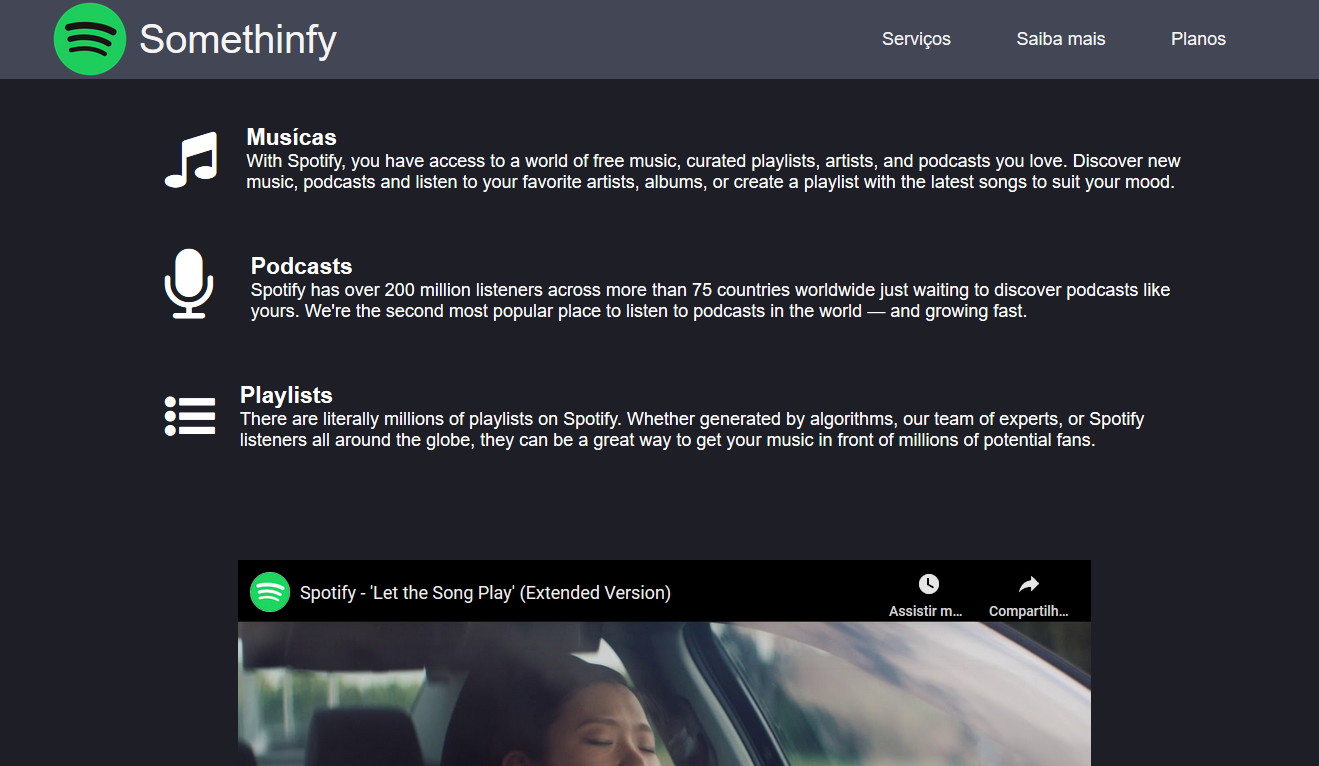
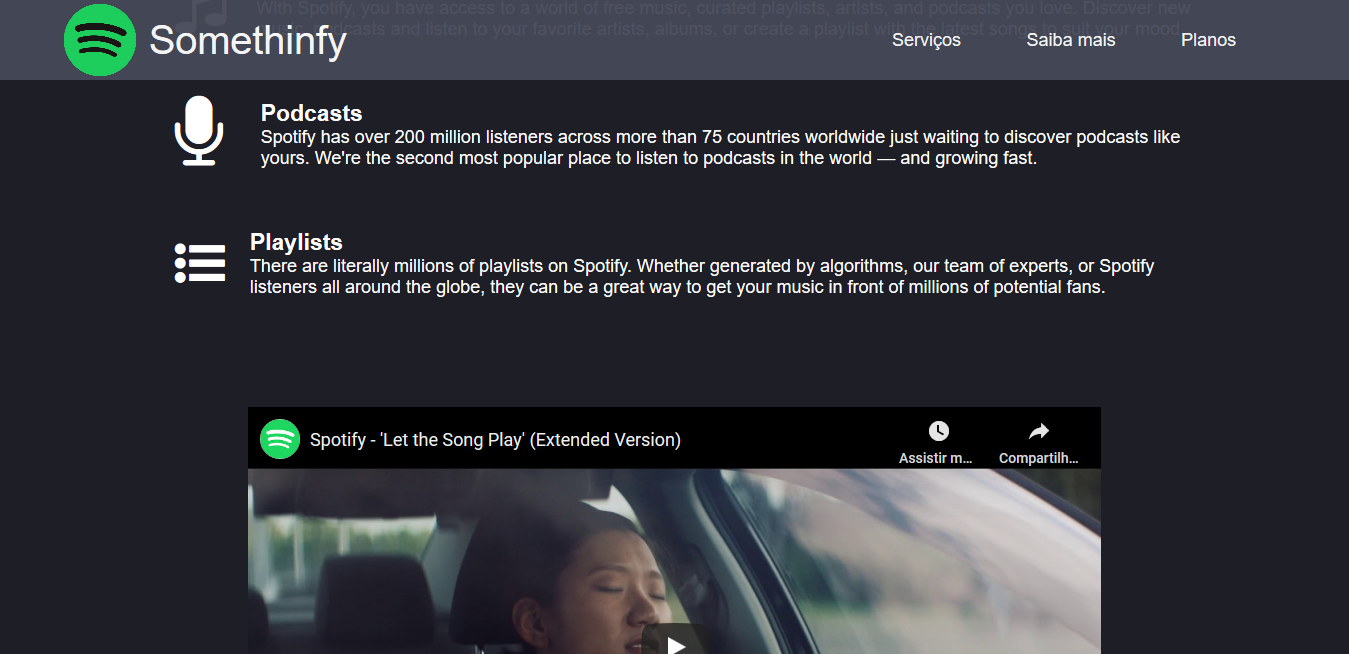
-General styling updates
-navbar.js now hides the navbar element whether the page is scrolled down and shows it on scrolling up

diff --git a/index.html b/index.html
@@ -1,15 +1,18 @@
 <!DOCTYPE html>
-<html lang="en">
 
 <head>
     <meta charset="UTF-8">
     <meta name="viewport" content="width=device-width, initial-scale=1.0">
+    <meta name="description" content="">
     <link rel="icon" href="img/favicon.ico">
     <link href="https://fonts.googleapis.com/css?family=Roboto&display=swap" rel="stylesheet">
     <link rel="stylesheet" href="https://maxcdn.bootstrapcdn.com/font-awesome/4.4.0/css/font-awesome.min.css">
     <link rel="stylesheet" href="style.css">
+
     <title>João Fernandes</title>
 </head>
+
+<script src="navbar.js" defer></script>
 
 <body>
     <header>
@@ -33,20 +36,19 @@
     <div class="page-content">
         <section class="about-section" id="welcome-section">
             <h1>Olá,</h1>
-            <p> curso Análise e Desenvolvimento de Sistemas na FATEC Sorocaba e também passo um tempo no
+            <p> eu curso análise e desenvolvimento de sistemas na FATEC Sorocaba e também passo um tempo no
                 freeCodeCamp.org
             </p>
         </section>
         <section id="projects" class="works-section">
             <h1>Projetos</h1>
-            <p>Aqui estão algumas das coisas que eu construi depois de reler a documentação do <span
-                    class="bold">MDN</span>
-                muitas vezes:</p>
+            <p>Aqui estão algumas das coisas que eu construi após ler a documentação do <span class="bold">MDN</span>
+                inúmeras vezes:</p>
 
             <div class="works-showcase">
                 <div class="project-tile">
                     <a href="https://simplec4lculator.netlify.com/" target="_blank">
-                        <img class="work-picture" src="https://i.imgur.com/Z8VMuTs.png">
+                        <img class="work-picture" src="https://i.imgur.com/zZPj9xI.png">
                     </a>
                     <h3>
                         <span class="hover-work">&lt;</span>
@@ -59,7 +61,7 @@
                 </div>
                 <div class="project-tile">
                     <a href="https://somethinfy.netlify.com/" target="_blank">
-                        <img class="work-picture" src="https://i.imgur.com/GWseCSH.png">
+                        <img class="work-picture" src="https://i.imgur.com/0zBQMSe.png">
                     </a>
                     <h3>
                         <span class="hover-work">&lt;</span>
@@ -72,7 +74,7 @@
                 </div>
                 <div class="project-tile">
                     <a href="https://somedocumentation.netlify.com/" target="_blank">
-                        <img class="work-picture" src="https://i.imgur.com/KpUrszC.png">
+                        <img class="work-picture" src="https://i.imgur.com/Ssxcz2y.png">
                     </a>
                     <h3>
                         <span class="hover-work">&lt;</span>
@@ -85,7 +87,7 @@
                 </div>
                 <div class="project-tile">
                     <a href="https://joaoaoluiz.github.io/portfolio/" target="_blank">
-                        <img class="work-picture" src="https://i.imgur.com/gcGKYZH.png">
+                        <img class="work-picture" src="https://i.imgur.com/PZxo5gJ.png">
                     </a>
                     <h3>
                         <span class="hover-work">&lt;</span>
@@ -100,7 +102,7 @@
         </section>
         <section id="contact-section">
             <h2>
-                Onde você pode me achar?
+                Você pode me encontrar por aqui:
             </h2>
             <div class="contact-icons">
                 <a href="https://www.linkedin.com/in/jo%C3%A3o-l-fernandes-092244180/" target="_blank">
@@ -113,7 +115,7 @@
                     <i class="fa fa-twitter fa-3x"></i>
                 </a>
                 <a href="mailto:joao.fernandes22@fatec.sp.gov.br" target="_blank">
-                    <i class="fa fa-at fa-3x"></i>
+                    <i class="fa fa-envelope fa-3x"></i>
                 </a>
                 <a id="profile-link" href="https://github.com/jdusnik" target="_blank">
                     <i class="fa fa-github fa-3x"></i>

diff --git a/style.css b/style.css
@@ -56,7 +56,6 @@ h1 {
 }
 
 .about-section p {
-    font-size: 1.4em;
     margin: 0 4.5em;
 }
 
@@ -71,9 +70,11 @@ h1 {
     display: flex;
     flex-wrap: wrap;
     background-color: var(--lightpurple-color);
-    opacity: 85%;
+    opacity: .9;
     padding: 1rem 0;
     z-index: 7;
+    transition-duration: .8s;
+    /*Hide on scroll*/
 }
 
 .logo-container {
@@ -118,7 +119,7 @@ h1 {
 .works-section {
     color: var(--whiteish-color);
     background: var(--darkpurple-color);
-    padding: 150px 2em 0px 2em;
+    padding: 2em;
     min-height: 100vh;
 }
 
@@ -133,7 +134,10 @@ h1 {
     width: 100%;
     height: auto;
     margin-bottom: 1em;
-    box-shadow: 3px 3px 2px black;
+    border-radius: 20px;
+    -webkit-box-shadow: 5px 5px 5px 0px rgba(0, 0, 0, 0.75);
+    -moz-box-shadow: 5px 5px 5px 0px rgba(0, 0, 0, 0.75);
+    box-shadow: 5px 5px 5px 0px rgba(0, 0, 0, 0.75);
 }
 
 .project-tile {
@@ -141,7 +145,7 @@ h1 {
     flex-direction: column;
     text-align: center;
     flex-basis: 568px;
-    margin: 2em auto;
+    margin: 2em 0;
     position: relative;
 }
 
@@ -185,9 +189,6 @@ h1 {
 }
 
 @media screen and (max-width: 600px) {
-    #contact-section {
-        justify-content: flex-end;
-    }
     .project-tile h3 {
         font-size: .8em;
     }
@@ -276,8 +277,8 @@ h1 {
     color: #1DA1F2;
 }
 
-.fa-at:hover, .fa-at:focus {
-    color: #C71610;
+.fa-envelope:hover, .fa-envelope:focus {
+    color: #F14336;
 }
 
 .fa-github:hover, .fa-github:focus {

diff --git a/navbar.js b/navbar.js
@@ -1,0 +1,14 @@
+const navbar = document.querySelector("#navbar")
+
+let lastScroll = 0
+
+window.addEventListener('scroll', () => {
+    let currentScroll = window.pageYOffset
+
+    if (currentScroll > lastScroll)
+        navbar.style.top = `-230px`
+    else
+        navbar.style.top = `0px`
+
+    lastScroll = currentScroll
+})
